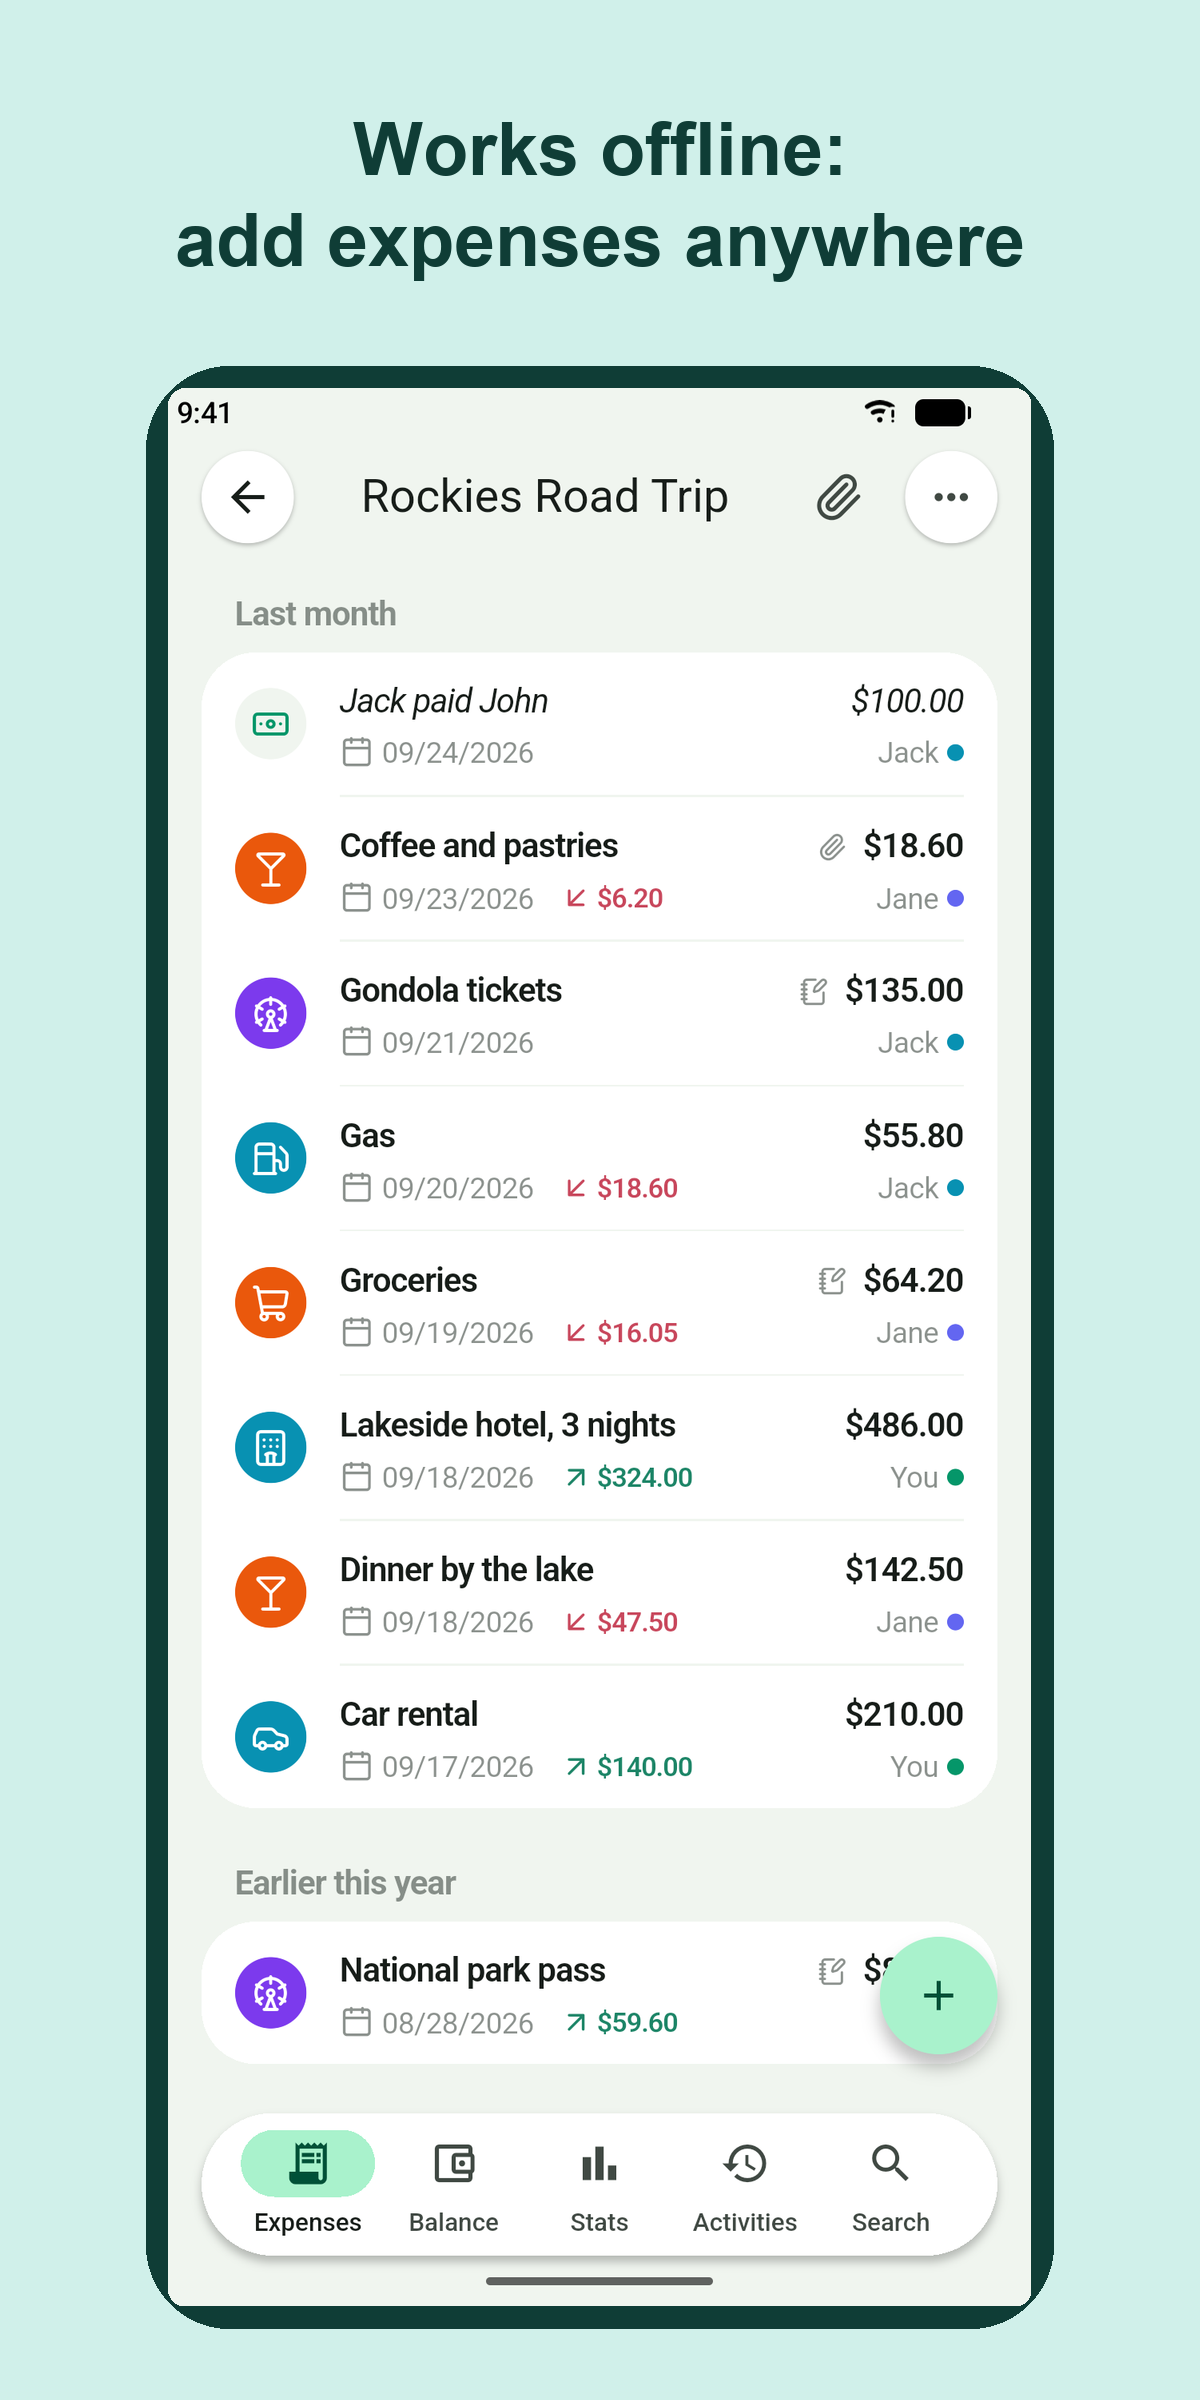
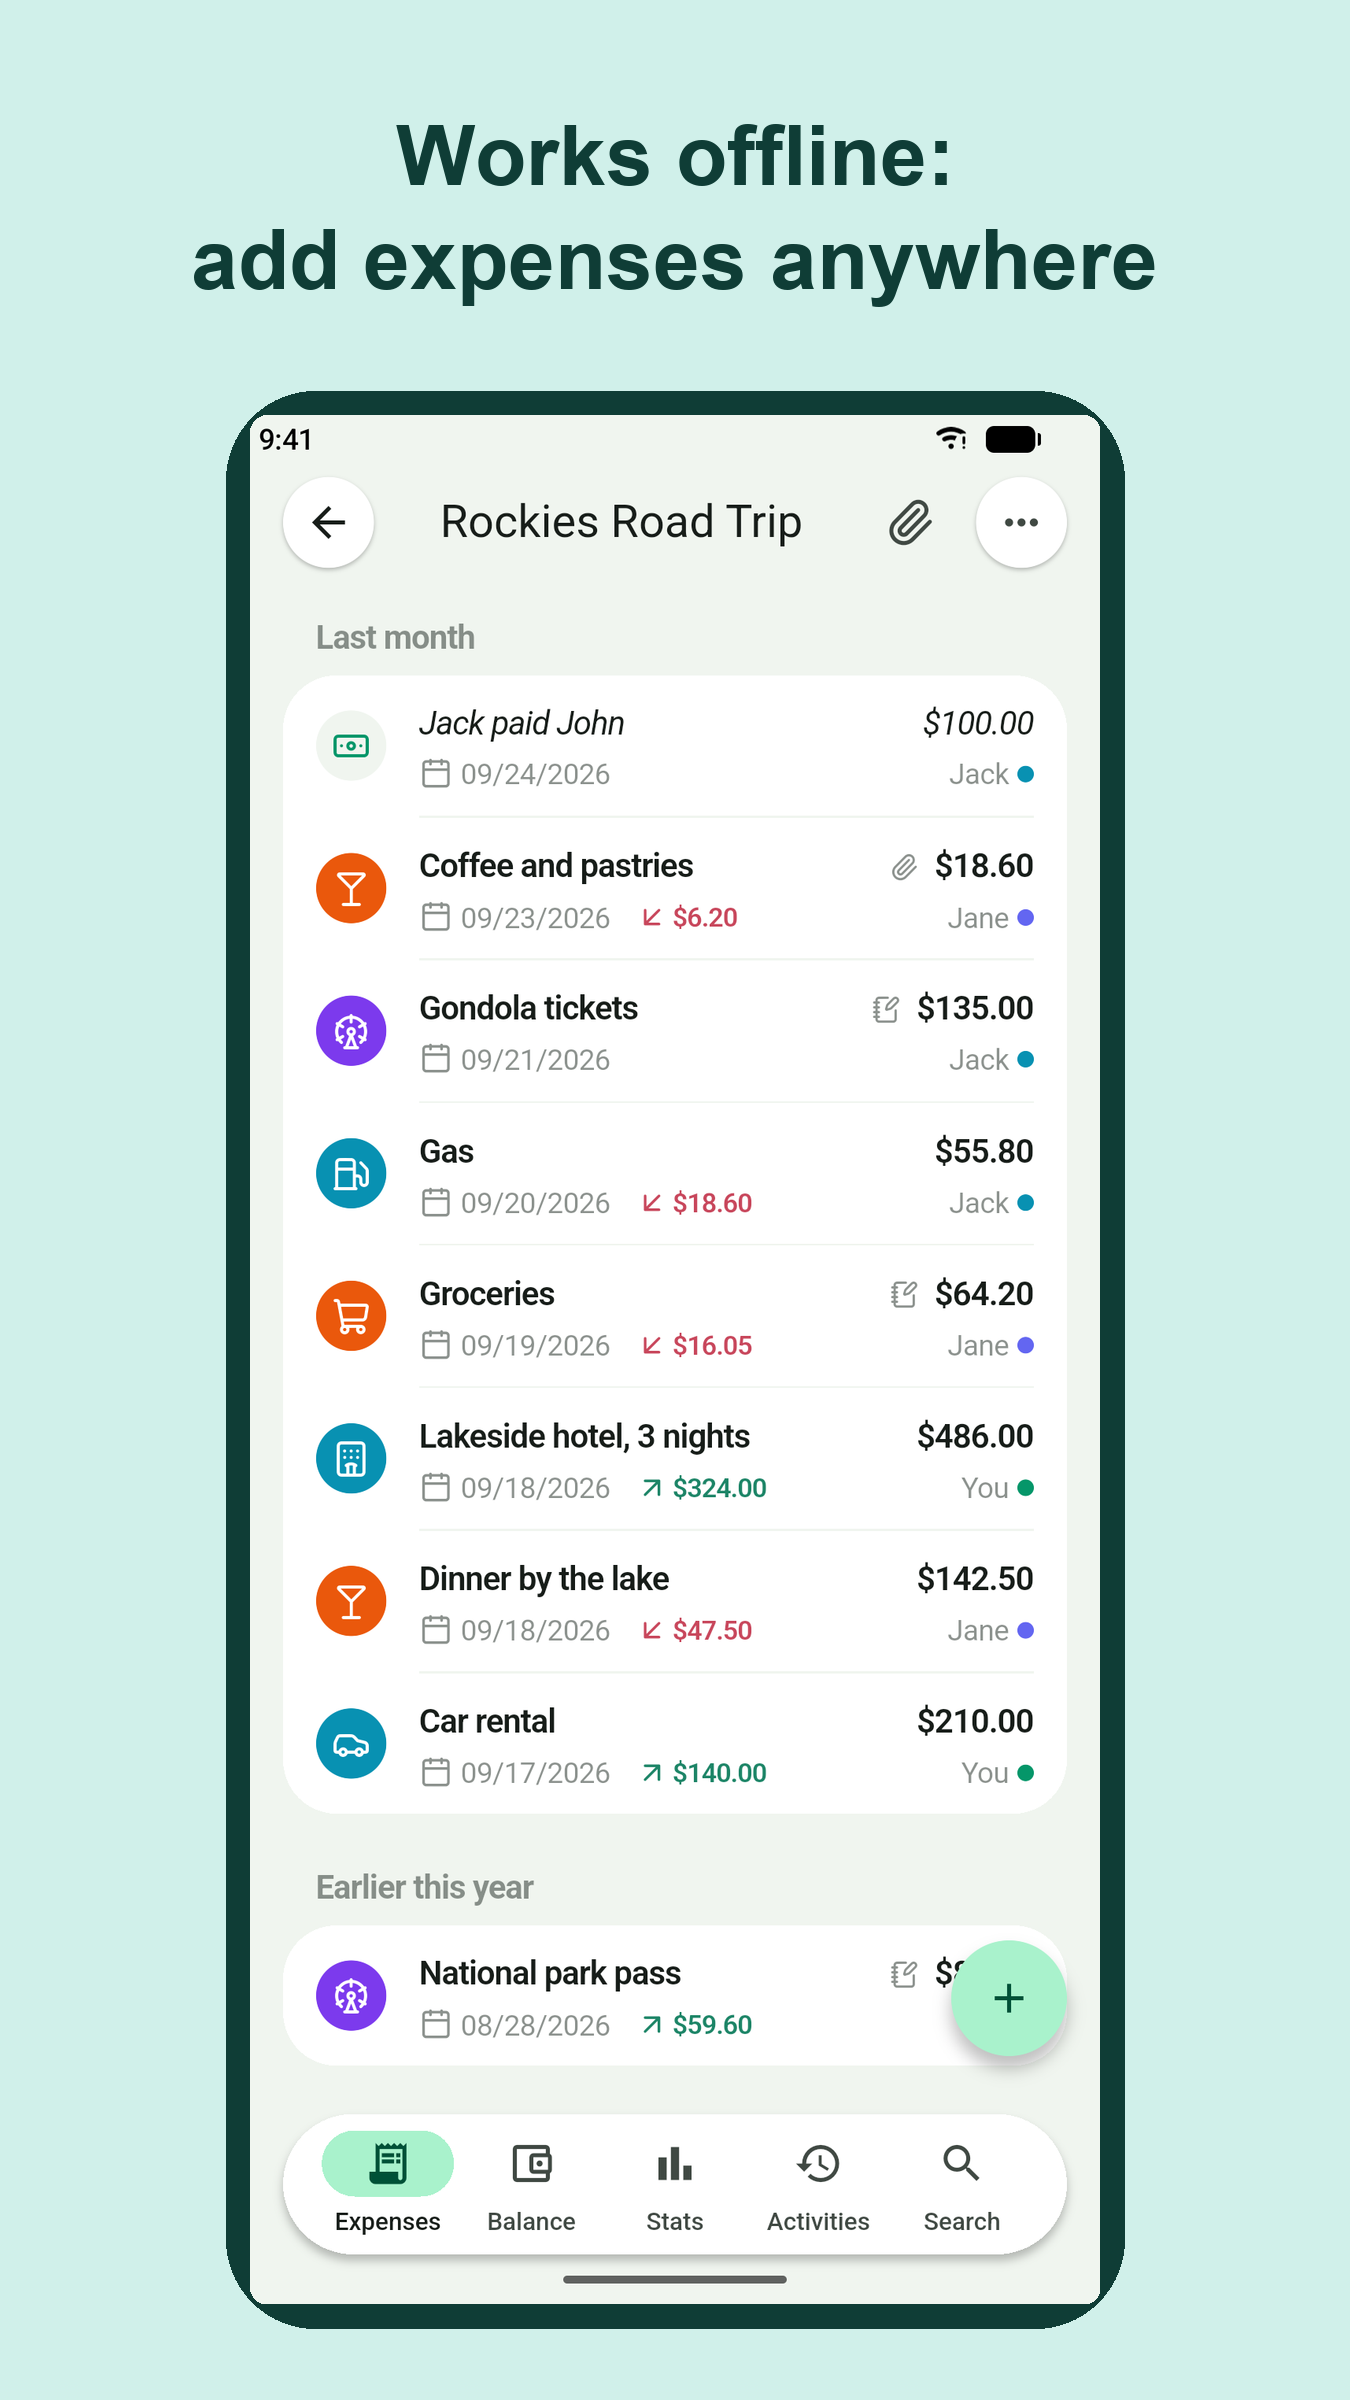
Play screenshots on a 9:16 canvas
Play's store listing now takes only 16:9 or 9:16 phone screenshots, so
the 2:1 ones (1200x2400) can't be uploaded. They are 1350x2400 now.

diff --git a/scripts/make_store_assets.py b/scripts/make_store_assets.py
@@ -4,9 +4,9 @@
 Run from anywhere; needs Pillow (`pip install pillow`). Reads the raw
 captures in branding/store/screenshots/raw/ and writes:
 
-  branding/store/screenshots/play/*.png       1200x2400, Google Play phone
-      screenshots (Play rejects a long side over twice the short one, and
-      the emulator's 1080x2400 is 2.22:1, so each sits on a 2:1 canvas)
+  branding/store/screenshots/play/*.png       1350x2400, Google Play phone
+      screenshots (Play takes only 16:9 or 9:16, and the emulator's
+      1080x2400 is 2.22:1, so each sits on a 9:16 canvas)
   branding/store/screenshots/app-store/*.png  1320x2868, App Store 6.9"
   branding/store/feature-graphic.png          1024x500, Google Play
 
@@ -49,7 +49,7 @@ PLATFORM_CAPTIONS = {
 
 # (raw folder, output folder, canvas size)
 TARGETS = [
-    ('android', 'play', (1200, 2400)),
+    ('android', 'play', (1350, 2400)),
     ('iphone', 'app-store', (1320, 2868)),
 ]
 

diff --git a/branding/store/README.md b/branding/store/README.md
@@ -6,11 +6,11 @@ What the store listings need (#112), ready to upload. The listing text is in [li
 |---|---|---|
 | `play-icon-512.png` | Google Play icon | 512×512 |
 | `feature-graphic.png` | Google Play feature graphic | 1024×500 |
-| `screenshots/play/*.png` | Google Play phone screenshots, in order | 1200×2400 |
+| `screenshots/play/*.png` | Google Play phone screenshots, in order | 1350×2400 |
 | `app-store-icon-1024.png` | App Store icon | 1024×1024 |
 | `screenshots/app-store/*.png` | App Store iPhone 6.9" screenshots, in order | 1320×2868 |
 
-The icons come from `scripts/make_icons.py`. The screenshots and the feature graphic come from `scripts/make_store_assets.py`, which frames the raw captures in `screenshots/raw/` with a caption (its `CAPTIONS`) and draws the feature graphic. Play needs the 2:1 canvas: it rejects screenshots whose long side is more than twice the short one, and a 1080×2400 phone screen is 2.22:1.
+The icons come from `scripts/make_icons.py`. The screenshots and the feature graphic come from `scripts/make_store_assets.py`, which frames the raw captures in `screenshots/raw/` with a caption (its `CAPTIONS`) and draws the feature graphic. Play needs the 9:16 canvas: it takes only 16:9 or 9:16 phone screenshots (it took up to 2:1 until late 2026), and a 1080×2400 phone screen is 2.22:1.
 
 ## Taking the raw captures
 
